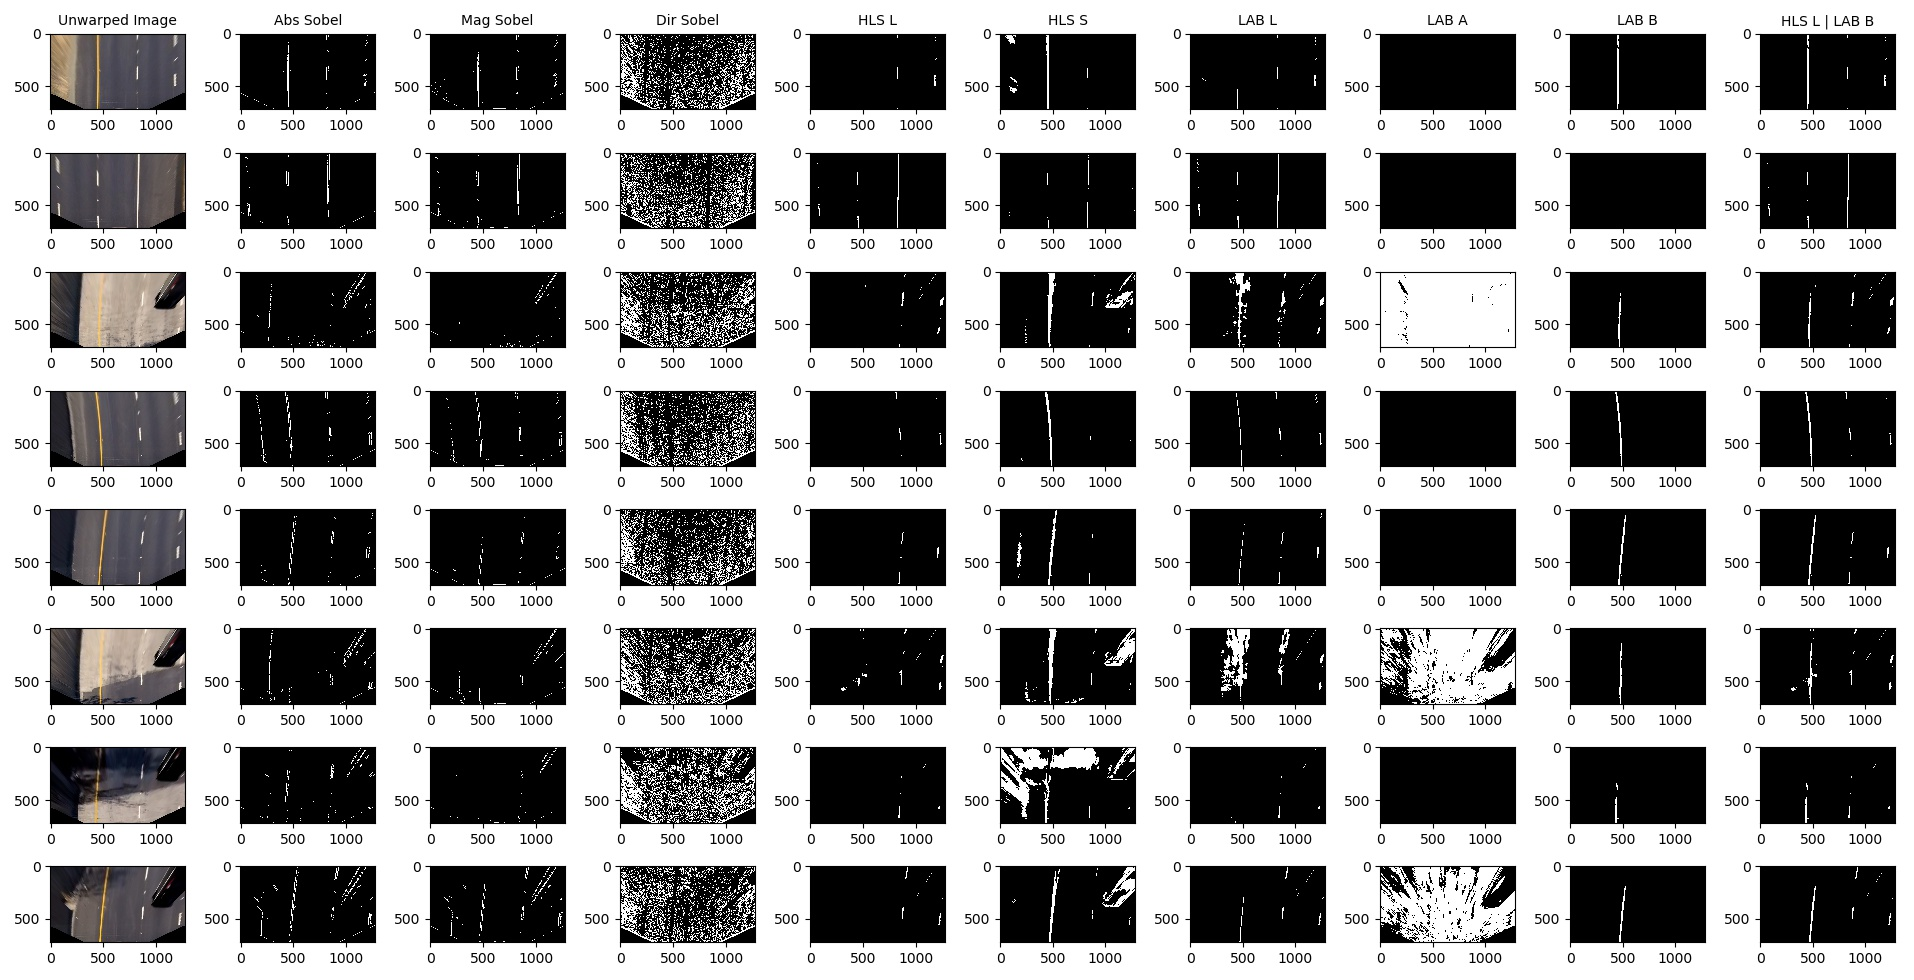
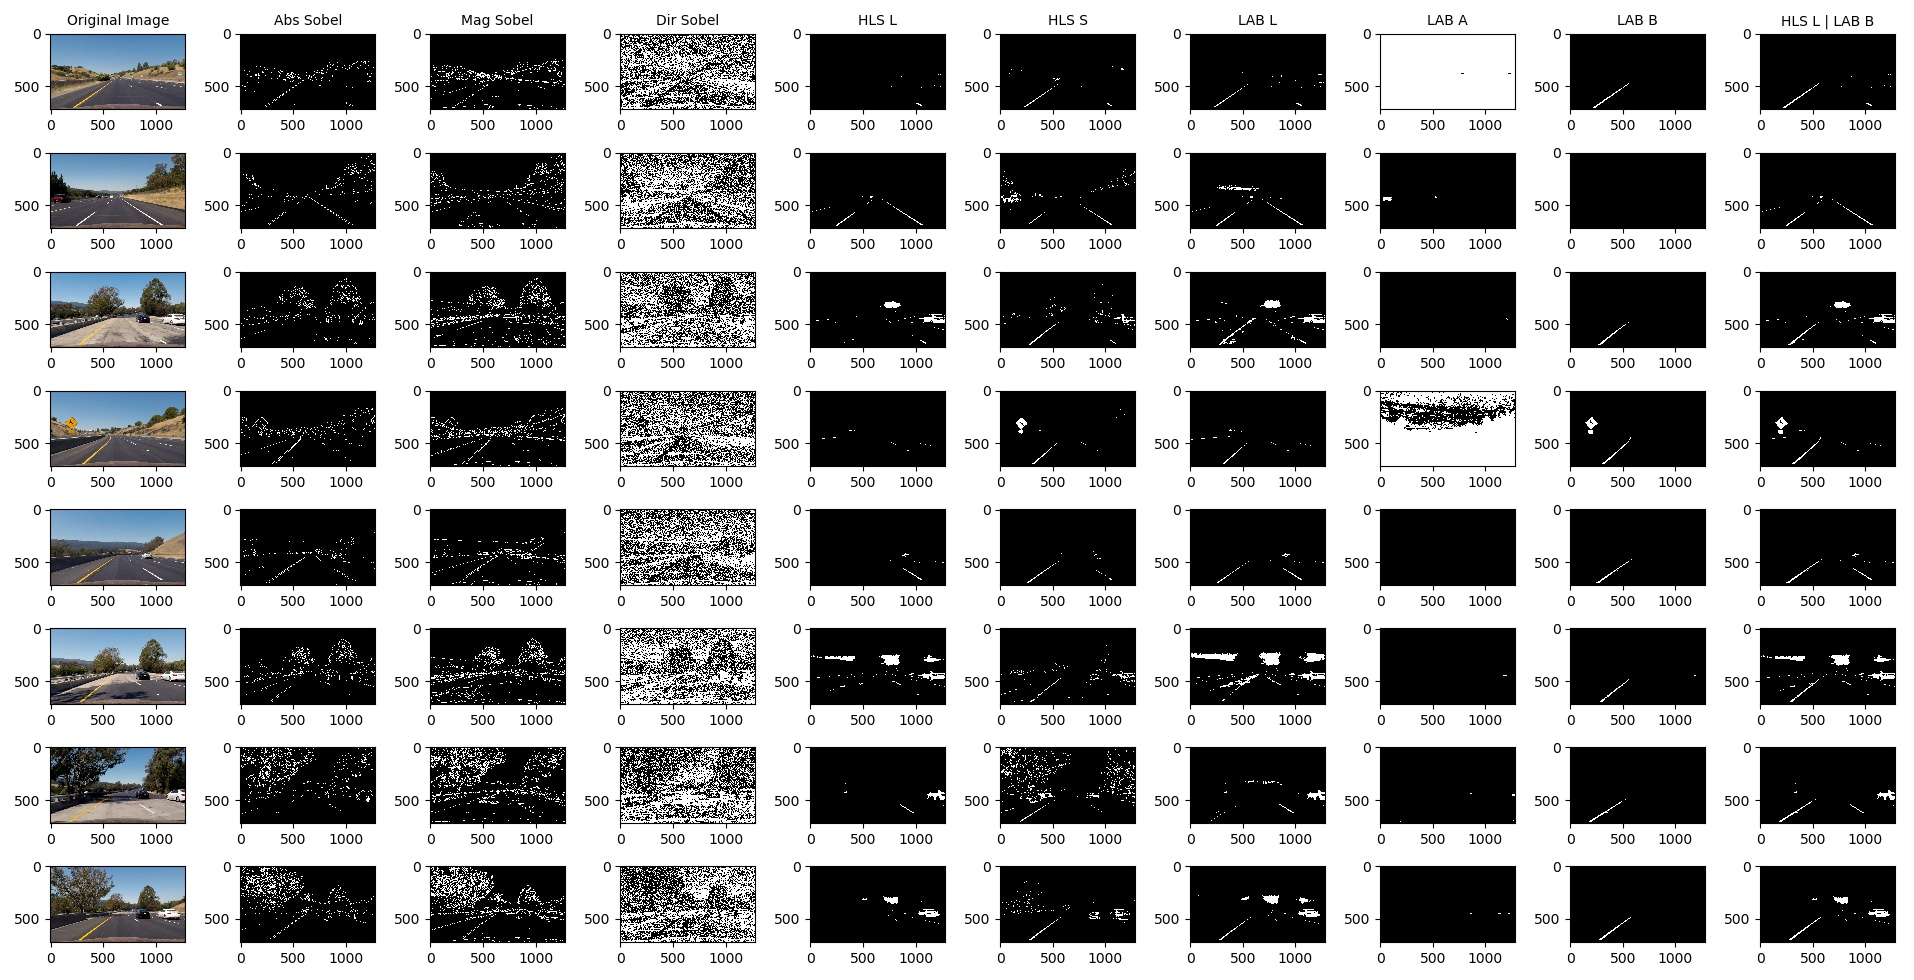
Updated image threshold script and image.

diff --git a/explore_image_thresholds.py b/explore_image_thresholds.py
@@ -43,8 +43,8 @@ def test_thresholding():
                           (w-450,h)])
 
         # warped Image                  
-        warped_img = warp(undist_img, src, dst)
-        #warped_img = undist_img
+        #warped_img = warp(undist_img, src, dst)
+        warped_img = undist_img
 
         # Sobel Thresholding
         abs_sobel_img = abs_sobel_thresh(warped_img, 'x', thresh=(30,200))
@@ -68,7 +68,7 @@ def test_thresholding():
         #print(lab_bselect_img)
         
         if idx == 0:
-            axs[0].set_title('Unwarped Image', fontsize=10)
+            axs[0].set_title('Original Image', fontsize=10)
             axs[1].set_title('Abs Sobel', fontsize=10)
             axs[2].set_title('Mag Sobel', fontsize=10)
             axs[3].set_title('Dir Sobel', fontsize=10)
